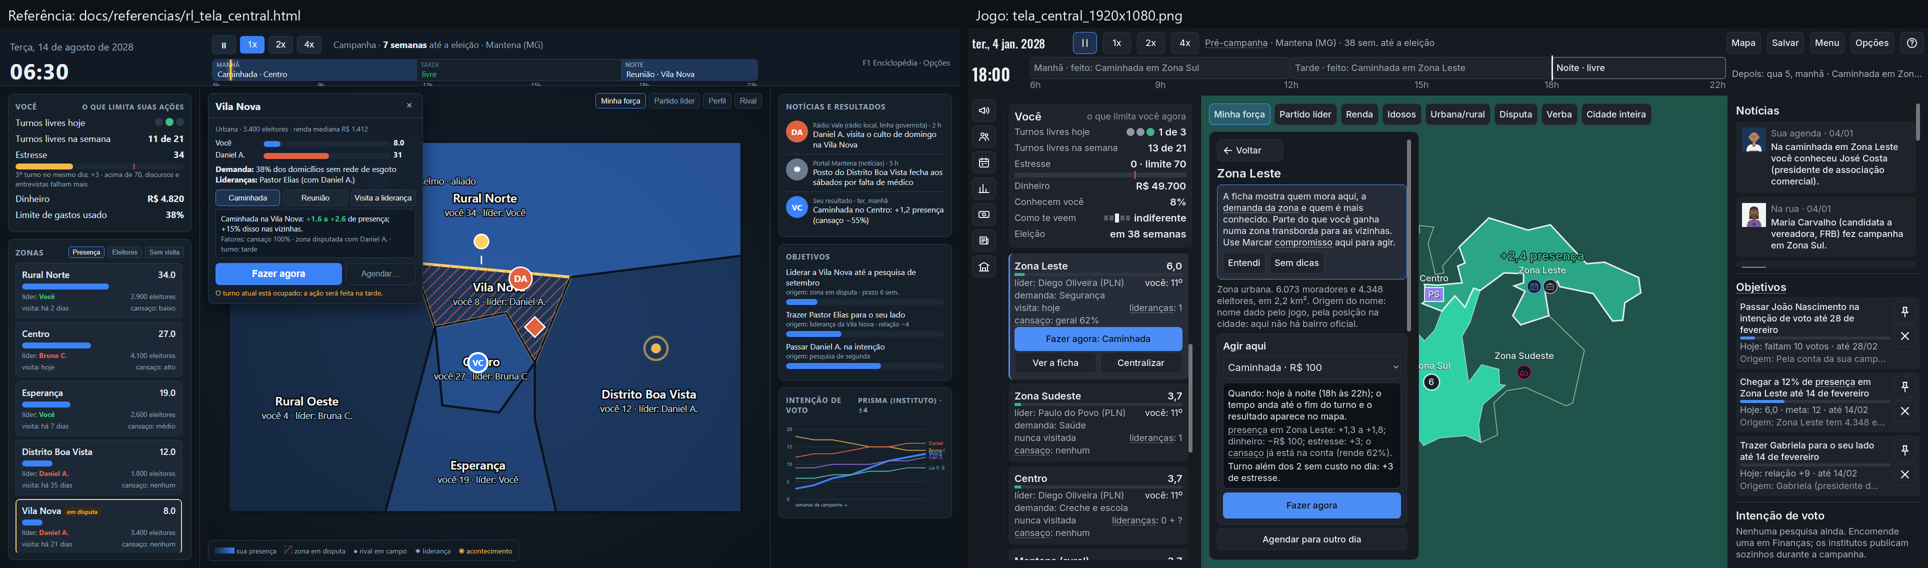
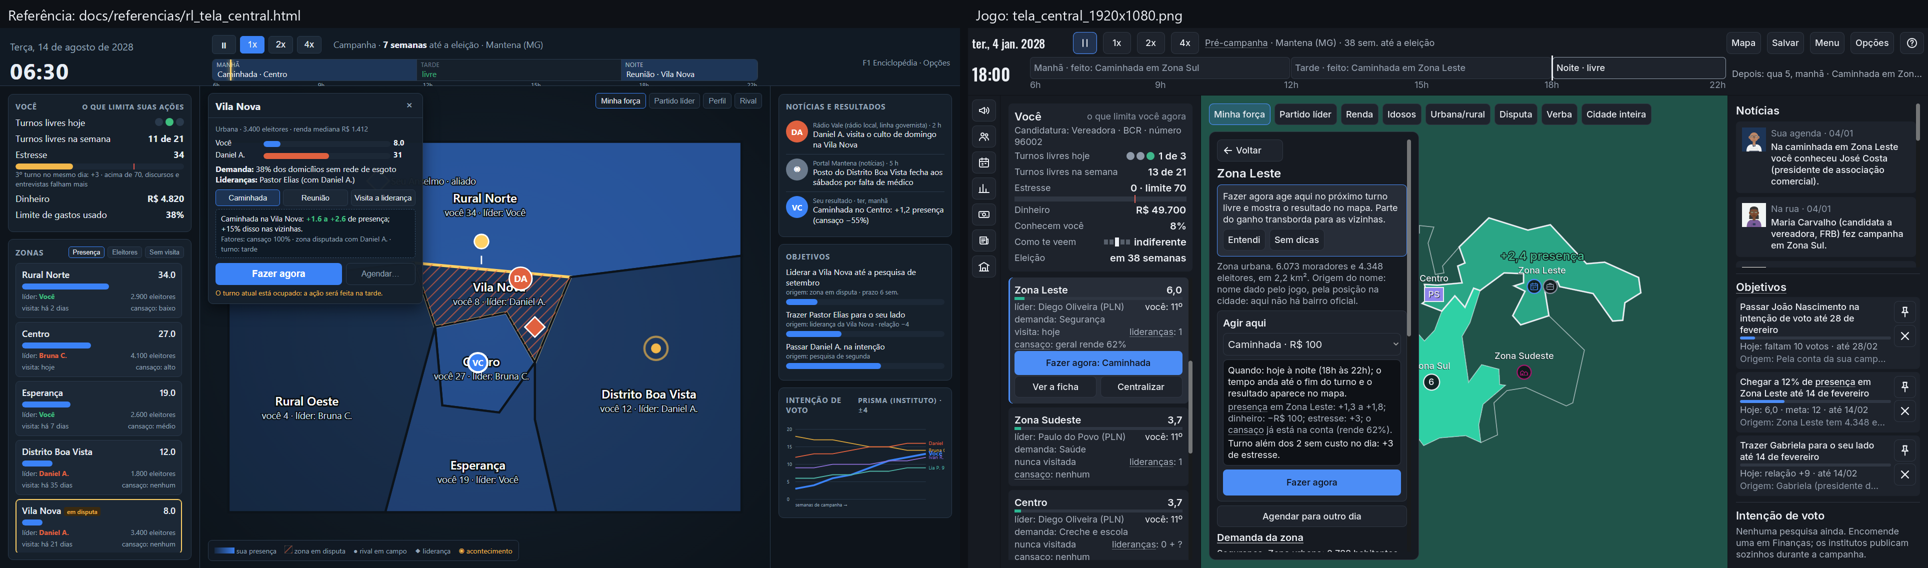
fix(ui): dica da ficha aponta para Fazer agora e o cansaço diz quanto ainda rende
A dica de primeira vez da ficha da zona fica em duas linhas e aponta para
"Fazer agora"; o tooltip de "Ver a ficha" e o verbete da agenda deixam de
tratar "Marcar compromisso aqui" como a ação principal. No painel de zonas o
cansaço sai como "geral rende 62%", a mesma frase da previsão ("rende 62%"),
para o número não ser lido como o tamanho do cansaço; o verbete Cansaço e o
roteiro dizem isso. Capturas do meio refeitas.

Changed region(s): [[0.529, 0.2095, 0.7469, 0.9877]]

diff --git a/src/UI/Screens/HubScreen.cs b/src/UI/Screens/HubScreen.cs
@@ -48,7 +48,7 @@ public partial class HubScreen : Control
         ["contas"] = "Toda campanha tem limite de gastos e presta contas. Dinheiro \"por fora\" não tem limite, mas vira esqueleto: quem sabe pode contar. O risco das contas decide o julgamento depois da eleição.",
         ["agenda"] = "Cada dia tem três turnos. Clique num turno livre, escolha o compromisso e a zona e veja a previsão antes de confirmar. Repetir o mesmo compromisso na mesma zona rende cada vez menos: é o cansaço.",
         ["territorio"] = "Sua presença muda de zona para zona e cai nas zonas em que você não aparece. Clique numa zona do mapa ou da lista para abrir a ficha.",
-        ["ficha_zona"] = "A ficha mostra quem mora aqui, a demanda da zona e quem é mais conhecido. Parte do que você ganha numa zona transborda para as vizinhas. Fazer agora age no próximo turno livre; Agendar para outro dia marca com antecedência.",
+        ["ficha_zona"] = "Fazer agora age aqui no próximo turno livre e mostra o resultado no mapa. Parte do ganho transborda para as vizinhas.",
         ["financas"] = "O bloco Contas mostra o limite de gastos, o risco e as ofertas de doação à espera de resposta. Pesquisa interna mostra onde você está; institutos publicam sozinhos durante a campanha.",
         ["midia"] = "Cada veículo tem linha editorial: ela decide o tom da notícia, nunca o fato. Clique num veículo para marcar entrevista, sugerir pauta ou anunciar. Tema em alta rende mais naquela semana.",
         ["partido"] = "Seu partido define o número de urna e pesa no voto de quem já gosta dele.",

diff --git a/src/UI/Screens/HubScreen.Zone.cs b/src/UI/Screens/HubScreen.Zone.cs
@@ -105,7 +105,7 @@ public partial class HubScreen
     private string FatigueText(ZoneRow row) =>
         row.Fatigue.Count == 0
             ? Tr("cansaço: nenhum")
-            : Tr("cansaço:") + " " + string.Join(" · ", row.Fatigue.Take(2).Select(f => string.Format(PtBr, "{0} {1:P0}", FatiguePublico(f.Publico, false), f.Yield)));
+            : Tr("cansaço:") + " " + string.Join(" · ", row.Fatigue.Take(2).Select(f => $"{FatiguePublico(f.Publico, false)} {YieldText(f.Yield)}"));
 
     /// <summary>Uma linha do painel de zonas: cartão clicável; a zona destacada leva a barra de seleção e as ações.</summary>
     private PanelContainer ZoneCard(ZoneRow row)
@@ -173,7 +173,7 @@ public partial class HubScreen
 
             HBoxContainer actions = Ui.Row(col, 8);
             Button open = Ui.Button(actions, "Ver a ficha", () => { _map.Select(row.ZoneId); OpenSheet(Sheet.Zona, row.ZoneId); },
-                Palette.Tip(string.Format(Tr("Abre a ficha de {0}."), row.Name), Tr("mostra quem mora ali, a presença dos primeiros, as lideranças, o que você já fez e o cansaço, com Marcar compromisso aqui."), Tr("nada.")));
+                Palette.Tip(string.Format(Tr("Abre a ficha de {0}."), row.Name), Tr("mostra quem mora ali, a presença dos primeiros, as lideranças, o que você já fez e o cansaço, com Fazer agora e Agendar para outro dia."), Tr("nada.")));
             open.Name = "VerFicha";
             open.SizeFlagsHorizontal = SizeFlags.ExpandFill;
             Button center = Ui.Button(actions, "Centralizar", () => _map.CenterOn(row.ZoneId),

diff --git a/src/UI/Screens/HubScreen.Agenda.cs b/src/UI/Screens/HubScreen.Agenda.cs
@@ -885,6 +885,12 @@ public partial class HubScreen
         return lines;
     }
 
+    /// <summary>
+    /// Quanto o próximo compromisso igual ainda rende, pelo cansaço ("rende 62%"): a mesma frase na previsão e no
+    /// painel de zonas, para o número nunca ser lido como o tamanho do cansaço.
+    /// </summary>
+    private string YieldText(double factor) => string.Format(PtBr, Tr("rende {0:P0}"), factor);
+
     /// <summary>A previsão numa frase, para tooltips ("o que faz", com a faixa do Core).</summary>
     private string ForecastSummary(CommitmentRequest r, CommitmentForecast f)
     {
@@ -892,7 +898,7 @@ public partial class HubScreen
         string text = lines.Count == 0 ? Tr("sem efeito nos números") : string.Join("; ", lines);
         if (HasYield(Catalog.Get(r.Type)) && f.FatigueFactor < 0.999)
         {
-            text += "; " + string.Format(PtBr, Tr("o cansaço já está na conta (rende {0:P0})"), f.FatigueFactor);
+            text += "; " + string.Format(Tr("o cansaço já está na conta ({0})"), YieldText(f.FatigueFactor));
         }
 
         return text;

diff --git a/src/UI/Debug/UiShot.cs b/src/UI/Debug/UiShot.cs
@@ -1590,7 +1590,7 @@ public partial class UiShot : Node
         string zoneName = game.Engine!.ZoneName(target);
         if (hub.SheetName != "Marcar" || zoneOptions is null || !zoneOptions.GetItemText(zoneOptions.Selected).StartsWith(zoneName, StringComparison.Ordinal))
         {
-            Fail("\"Marcar compromisso aqui\" não abriu a marcação com a zona escolhida.");
+            Fail("\"Agendar para outro dia\" não abriu a marcação com a zona escolhida.");
             return;
         }
 
@@ -1641,7 +1641,7 @@ public partial class UiShot : Node
         }
 
         Save(shot, "_zona");
-        GD.Print($"Smoke zona: ok (clique no mapa abriu a ficha de {zoneName}; Marcar compromisso aqui gravou {marked.Type}; marcador no mapa; resultado e cansaço na ficha; feed centraliza o mapa)");
+        GD.Print($"Smoke zona: ok (clique no mapa abriu a ficha de {zoneName}; Agendar para outro dia gravou {marked.Type}; marcador no mapa; resultado e cansaço na ficha; feed centraliza o mapa)");
         GetTree().Quit(0);
     }
 

diff --git a/docs/ROTEIRO_TESTE_RL.md b/docs/ROTEIRO_TESTE_RL.md
@@ -20,7 +20,7 @@
 3. Clique cada ícone do trilho (Campanha, Pessoas, Agenda, Território, Finanças, Mídia, Partido): o painel **Você** fica sempre no mesmo lugar.
 
 ## 3. Painel de zonas e mapa (3 min)
-1. A tela abre na área **Território**: uma linha por zona com presença (e a barrinha), **líder:** da intenção, **você: Nº**, **demanda:**, a última visita, **lideranças:** e **cansaço:**.
+1. A tela abre na área **Território**: uma linha por zona com presença (e a barrinha), **líder:** da intenção, **você: Nº**, **demanda:**, a última visita, **lideranças:** e **cansaço:** ("geral rende 62%" quer dizer que o próximo compromisso igual ali rende 62% do normal).
 2. Troque a ordem em **Ordenar por presença** (presença, eleitores, sua posição, visita mais antiga, lideranças, cansaço).
 3. Clique uma linha: a zona fica com contorno no mapa e a linha ganha a barra azul, **Fazer agora: Caminhada**, **Ver a ficha** e **Centralizar**.
 4. Clique outra zona **no mapa**: a linha dela fica destacada (a lista rola até ela) e a ficha da zona abre flutuando sobre o mapa.
